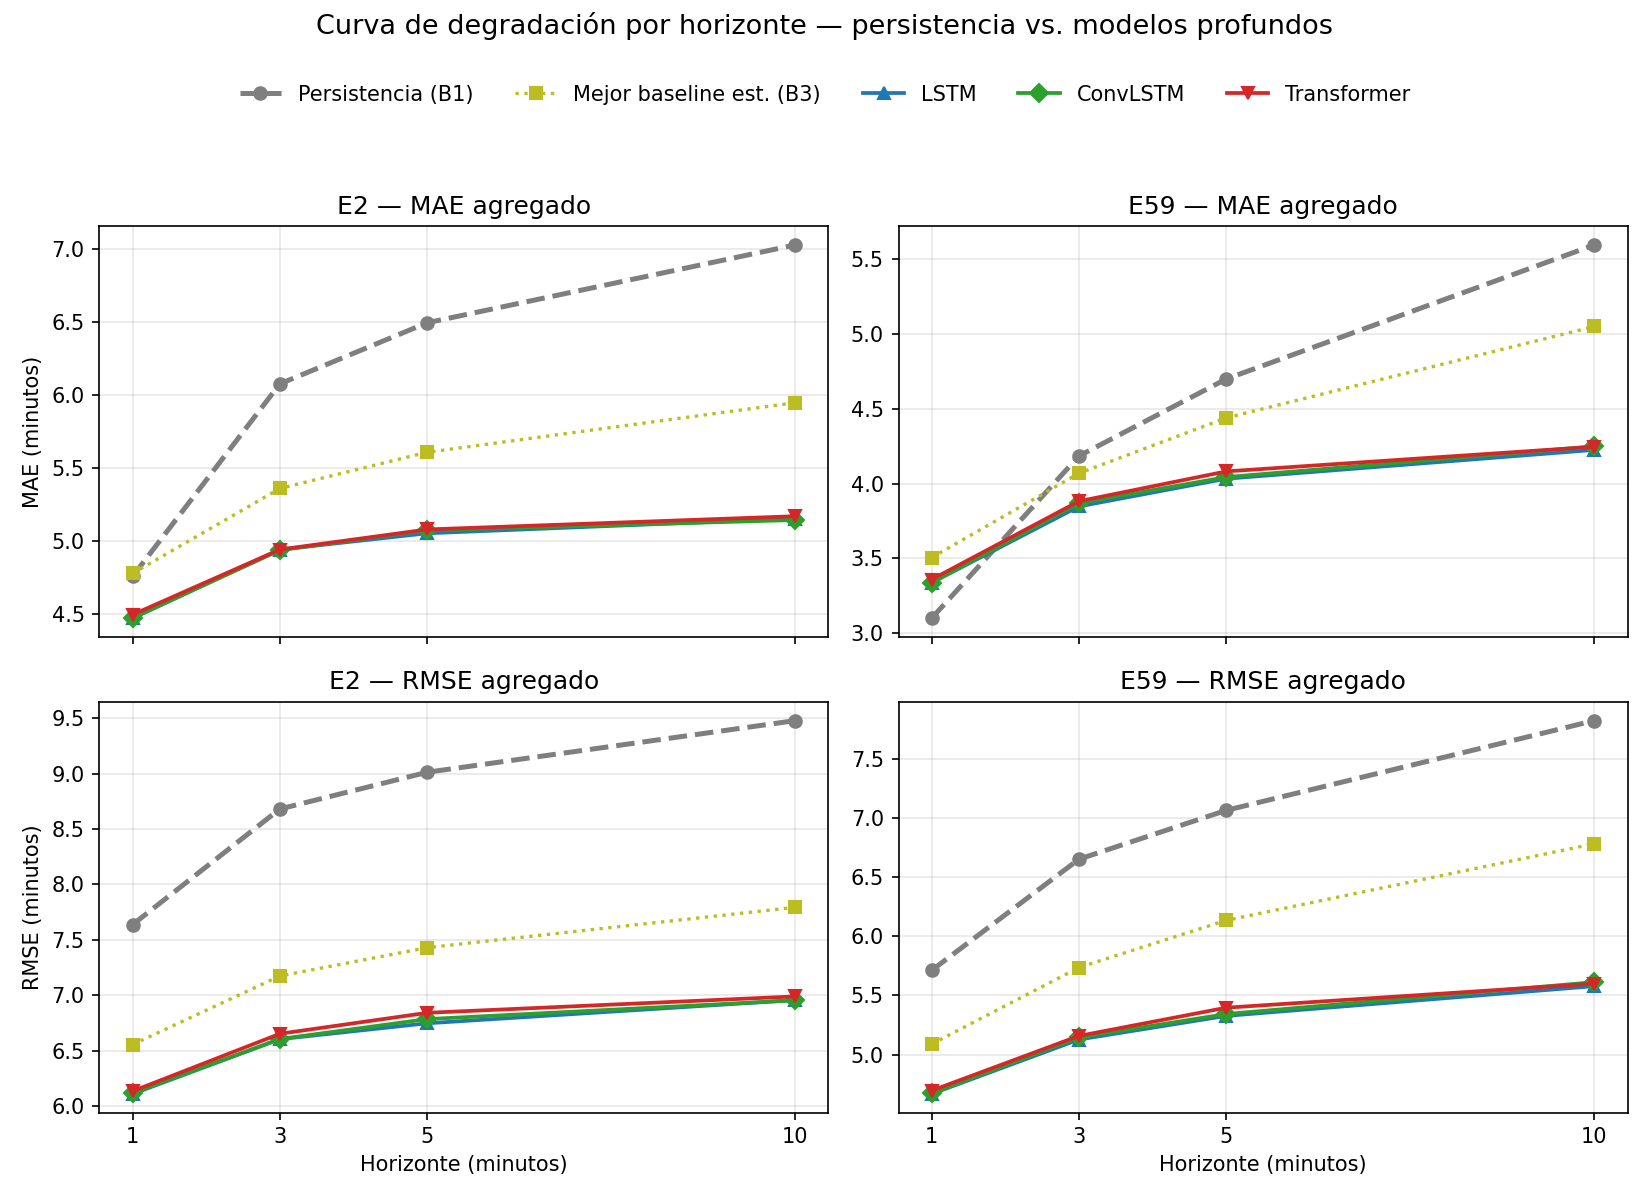
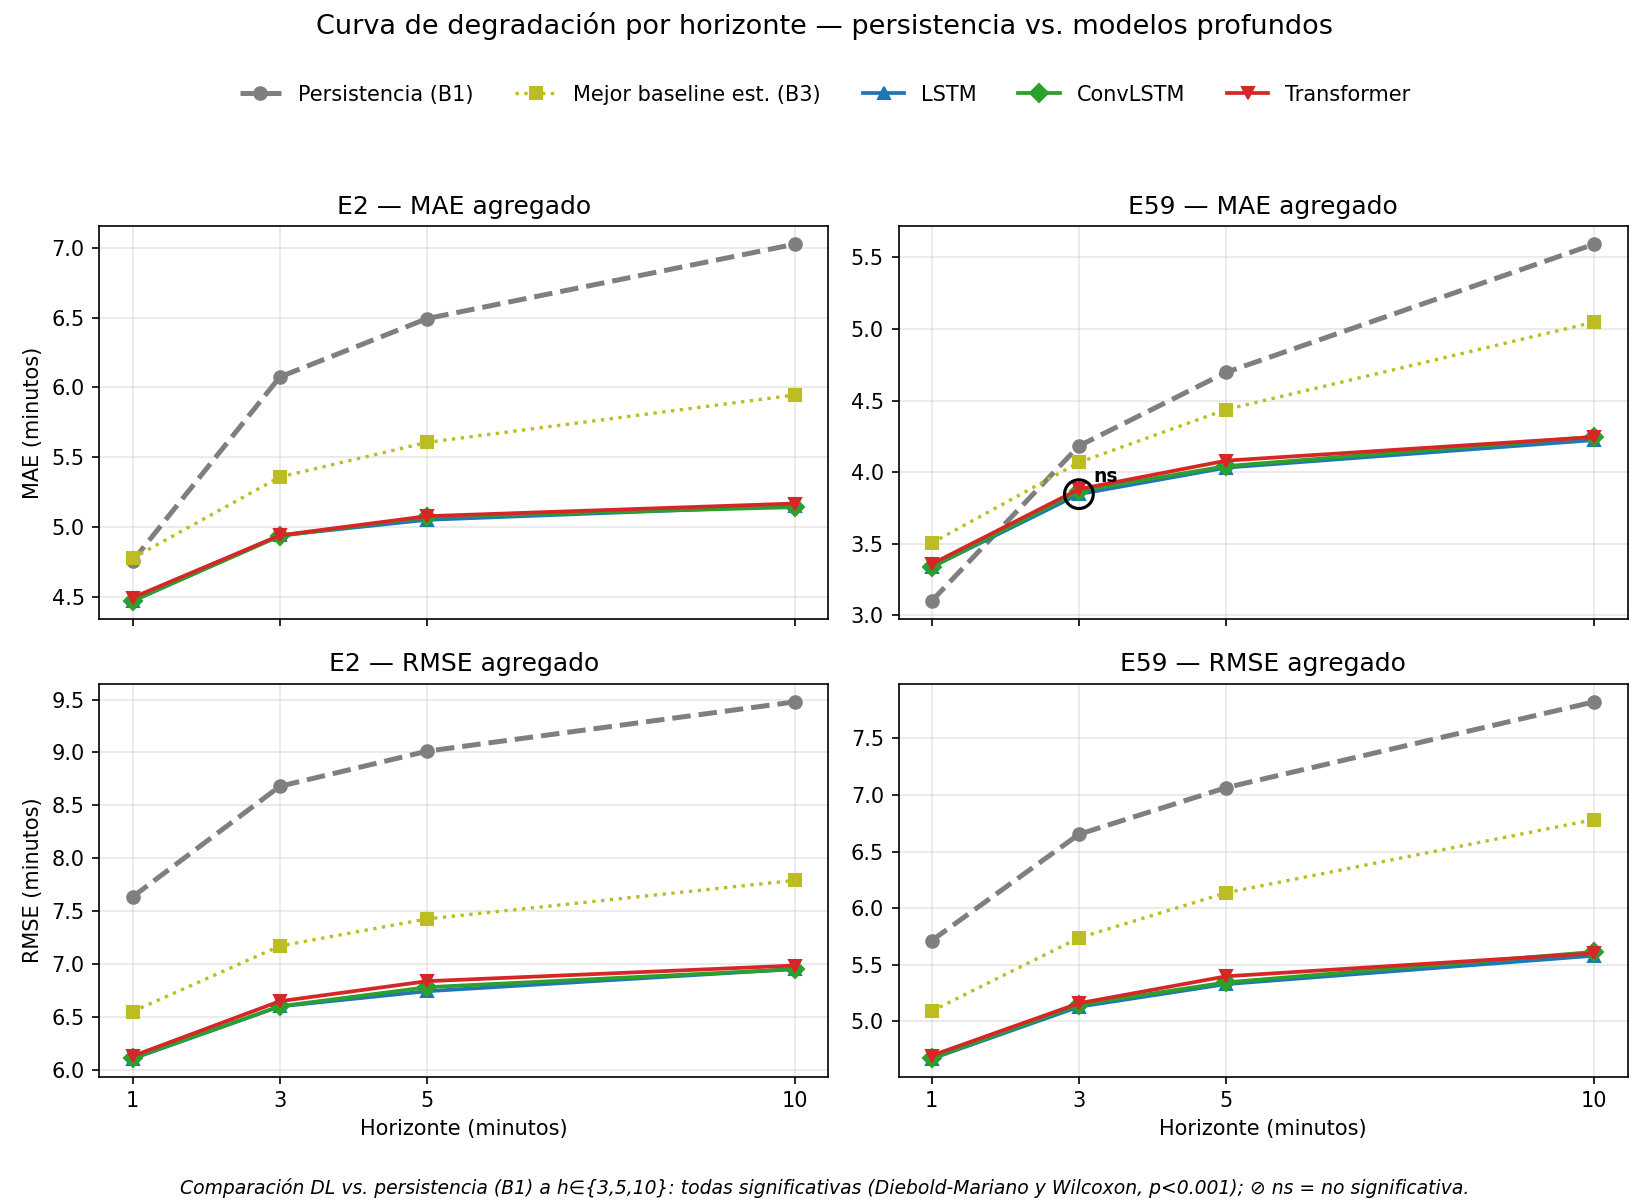
feat(evaluation): anotar significancia en la curva de degradacion
Marca cada punto DL-vs-persistencia de la figura con su veredicto estadistico:
todas las comparaciones (h 3/5/10, ambos corredores, MAE y RMSE) son
significativas salvo LSTM/E59/h3 (MAE), que queda con anillo + "ns". Nota al pie
con la afirmacion global. Los veredictos se leen del CSV versionado, no de los
residuos crudos, asi la figura reproduce sin ellos.

- significance_multihorizon.csv: ahora 36 filas (MAE + RMSE) con columna metric.
- degradation.load_results(pattern): default *.csv; build_degradation_curve usa
  "*_results_*.csv" para no levantar el CSV de significancia co-localizado en
  csv-multihorizon/ (que rompia load_results por schema). Test AC-LOAD-5.

39 tests evaluation verdes.

diff --git a/src/build_degradation_curve.py b/src/build_degradation_curve.py
@@ -12,13 +12,18 @@ Outputs (written to docs/resultados/):
     consolidated_multihorizon.csv   — single tidy table (all models/horizons)
     curva-degradacion.png           — 2x2 grid: rows MAE/RMSE, cols E2/E59
 
-Note: statistical significance (Diebold-Mariano / Wilcoxon) is intentionally NOT
-computed here — it needs per-sample errors, which the result CSVs do not contain.
+Significance: each deep-model point is tested against persistence (B1) with the
+paired Diebold-Mariano and Wilcoxon tests (see build_significance_table.py). All
+DL-vs-persistence comparisons are significant; the single exception is ringed and
+labelled ``ns`` on the figure, with a footnote stating the global claim. The
+significance verdicts are read from the versioned significance_multihorizon.csv,
+so the figure rebuilds without the (unversioned) raw per-sample residuals.
 """
 from __future__ import annotations
 
 from pathlib import Path
 
+import polars as pl
 import matplotlib
 
 matplotlib.use("Agg")  # headless: no display in WSL/CI
@@ -42,10 +47,31 @@ MODELS = [
 METRICS = ["MAE", "RMSE"]
 CORRIDORS = ["E2", "E59"]
 
+# Deep models whose points are tested against persistence (B1).
+DL_MODELS = {"LSTM", "SpatialConvLSTM", "SpatialTransformer"}
+SIG_CSV = RESULTS_DIR / "significance_multihorizon.csv"
+ALPHA = 0.05  # two-tailed threshold for both DM and Wilcoxon
+
 
 def _horizon_axis(table_cols: list[str]) -> list[int]:
     """Extract sorted horizon integers from h{H} column names."""
     return sorted(int(c[1:]) for c in table_cols if c.startswith("h"))
+
+
+def _load_significance(sig_csv: Path) -> dict[tuple[str, str, str, int], bool]:
+    """Map (model, metric, corridor, horizon) -> is the gap significant?
+
+    A point is significant when BOTH the Diebold-Mariano and the Wilcoxon p-value
+    fall below ``ALPHA``. Missing file -> empty map (figure renders unannotated).
+    """
+    if not sig_csv.exists():
+        return {}
+    sig = pl.read_csv(sig_csv)
+    verdict: dict[tuple[str, str, str, int], bool] = {}
+    for row in sig.iter_rows(named=True):
+        key = (row["model"], row["metric"], row["corridor"], int(row["horizon"]))
+        verdict[key] = (row["dm_p"] < ALPHA) and (row["wilcoxon_p"] < ALPHA)
+    return verdict
 
 
 def build(results_dir: Path = RESULTS_DIR, out_dir: Path = OUT_DIR) -> Path:
@@ -53,11 +79,15 @@ def build(results_dir: Path = RESULTS_DIR, out_dir: Path = OUT_DIR) -> Path:
 
     Returns the path to the written figure.
     """
-    df = load_results(results_dir)
+    # Only the per-model/baseline result CSVs; skip the co-located
+    # significance_multihorizon.csv (different schema, same directory).
+    df = load_results(results_dir, pattern="*_results_*.csv")
 
     out_dir.mkdir(parents=True, exist_ok=True)
     master_csv = out_dir / "consolidated_multihorizon.csv"
     df.sort(["corridor", "metric", "baseline", "horizon"]).write_csv(master_csv)
+
+    significance = _load_significance(SIG_CSV)
 
     fig, axes = plt.subplots(2, 2, figsize=(11, 8), sharex=True)
     for row, metric in enumerate(METRICS):
@@ -78,6 +108,20 @@ def build(results_dir: Path = RESULTS_DIR, out_dir: Path = OUT_DIR) -> Path:
                     xs, ys, label=label, color=color, marker=marker,
                     linestyle=ls, linewidth=lw, markersize=6,
                 )
+                # Ring + label the rare DL-vs-persistence point that is NOT
+                # statistically significant (verdict explicitly False; h=1 and
+                # baselines have no paired test and are left unmarked).
+                if name in DL_MODELS:
+                    for x, y in zip(xs, ys):
+                        if significance.get((name, metric, corridor, x)) is False:
+                            ax.scatter(
+                                [x], [y], s=190, facecolors="none",
+                                edgecolors="black", linewidths=1.5, zorder=5,
+                            )
+                            ax.annotate(
+                                "ns", (x, y), textcoords="offset points",
+                                xytext=(7, 6), fontsize=9, fontweight="bold",
+                            )
             ax.set_title(f"{corridor} — {metric} agregado")
             ax.grid(True, alpha=0.3)
             ax.set_xticks(horizons)
@@ -95,7 +139,14 @@ def build(results_dir: Path = RESULTS_DIR, out_dir: Path = OUT_DIR) -> Path:
         handles, labels, loc="upper center", bbox_to_anchor=(0.5, 0.945),
         ncol=len(labels), frameon=False,
     )
-    fig.tight_layout(rect=(0, 0, 1, 0.90))
+    if significance:
+        fig.text(
+            0.5, 0.005,
+            "Comparación DL vs. persistencia (B1) a h∈{3,5,10}: todas significativas "
+            "(Diebold-Mariano y Wilcoxon, p<0.001); ⊘ ns = no significativa.",
+            ha="center", fontsize=9, style="italic",
+        )
+    fig.tight_layout(rect=(0, 0.03, 1, 0.90))
 
     fig_path = out_dir / "curva-degradacion.png"
     fig.savefig(fig_path, dpi=150)

diff --git a/src/build_significance_table.py b/src/build_significance_table.py
@@ -18,8 +18,12 @@ Inputs (downloaded from Kaggle, NOT versioned — see .gitignore):
 
 Output (versioned — small, paper reproducibility):
     docs/resultados/csv-multihorizon/significance_multihorizon.csv
-    columns: model, corridor, horizon, n, delta_mae, dm_stat, dm_p,
+    columns: model, metric, corridor, horizon, n, delta_mae, dm_stat, dm_p,
              wilcoxon_p, dl_better
+    One row per model × metric × corridor × horizon (36 rows). ``dm_*`` and
+    ``wilcoxon_p`` are computed on the row's ``metric`` loss; ``delta_mae`` is
+    the headline effect size, always in MAE units. The §6.6 table is the
+    ``metric == "MAE"`` slice; the RMSE rows back the figure's RMSE panels.
 
 Note on n: with millions of paired samples both p-values collapse to ~0; the
 paper leads with Δ MAE (effect size) and uses the p-values only to confirm the
@@ -45,10 +49,11 @@ MODELS = [
     ("SpatialTransformer", "13-spatialtransformer"),
 ]
 RESIDUALS_GLOB = "**/*_residuals_*.csv"  # skip the co-located *_results_*.csv
+METRICS = ["MAE", "RMSE"]
 
 
 def build(resid_dir: Path = RESID_DIR, out_dir: Path = OUT_DIR) -> Path:
-    """Run the paired tests for every model and write the consolidated CSV.
+    """Run the paired tests for every model × metric and write the consolidated CSV.
 
     Returns the path to the written CSV.
 
@@ -60,14 +65,16 @@ def build(resid_dir: Path = RESID_DIR, out_dir: Path = OUT_DIR) -> Path:
     tables: list[pl.DataFrame] = []
     for name, subdir in MODELS:
         df = load_residuals(resid_dir / subdir, pattern=RESIDUALS_GLOB)
-        table = significance_table(df, metric="MAE").with_columns(
-            pl.lit(name).alias("model")
-        )
-        tables.append(table)
+        for metric in METRICS:
+            table = significance_table(df, metric=metric).with_columns(
+                pl.lit(name).alias("model"), pl.lit(metric).alias("metric")
+            )
+            tables.append(table)
 
     consolidated = pl.concat(tables, how="vertical").select(
         [
             "model",
+            "metric",
             "corridor",
             "horizon",
             "n",
@@ -77,7 +84,7 @@ def build(resid_dir: Path = RESID_DIR, out_dir: Path = OUT_DIR) -> Path:
             "wilcoxon_p",
             "dl_better",
         ]
-    ).sort(["model", "corridor", "horizon"])
+    ).sort(["model", "metric", "corridor", "horizon"])
 
     out_dir.mkdir(parents=True, exist_ok=True)
     out_csv = out_dir / "significance_multihorizon.csv"

diff --git a/src/evaluation/degradation.py b/src/evaluation/degradation.py
@@ -26,16 +26,20 @@ import polars as pl
 REQUIRED_COLUMNS = ["corridor", "direction", "baseline", "metric", "value", "horizon"]
 
 
-def load_results(results_dir: str | Path) -> pl.DataFrame:
-    """Load and concatenate every ``*.csv`` in ``results_dir`` into one frame.
+def load_results(results_dir: str | Path, pattern: str = "*.csv") -> pl.DataFrame:
+    """Load and concatenate every matching CSV in ``results_dir`` into one frame.
 
-    Every CSV must carry the tidy schema in ``REQUIRED_COLUMNS``. The ``horizon``
-    column is cast to ``Int64`` so horizons sort numerically (h2 < h10).
+    Every selected CSV must carry the tidy schema in ``REQUIRED_COLUMNS``. The
+    ``horizon`` column is cast to ``Int64`` so horizons sort numerically (h2 < h10).
 
     Parameters
     ----------
     results_dir:
         Directory holding the multi-horizon result CSVs.
+    pattern:
+        Glob selecting which CSVs to load. Defaults to ``"*.csv"``. Pass
+        ``"*_results_*.csv"`` to skip co-located foreign-schema files such as
+        ``significance_multihorizon.csv`` that share the directory.
 
     Returns
     -------
@@ -44,12 +48,14 @@ def load_results(results_dir: str | Path) -> pl.DataFrame:
     Raises
     ------
     ValueError
-        If the directory contains no CSVs, or any CSV lacks a required column.
+        If no CSV matches ``pattern``, or any matching CSV lacks a required column.
     """
     results_dir = Path(results_dir)
-    csv_paths = sorted(results_dir.glob("*.csv"))
+    csv_paths = sorted(results_dir.glob(pattern))
     if not csv_paths:
-        raise ValueError(f"load_results: no CSV files found in {results_dir}")
+        raise ValueError(
+            f"load_results: no CSV matching {pattern!r} found in {results_dir}"
+        )
 
     frames: list[pl.DataFrame] = []
     for path in csv_paths:

diff --git a/tests/evaluation/test_degradation.py b/tests/evaluation/test_degradation.py
@@ -12,6 +12,8 @@ Acceptance criteria:
     AC-LOAD-2  load_results preserves the 6-column schema and all rows
     AC-LOAD-3  load_results raises if the dir has no CSVs
     AC-LOAD-4  load_results raises if a CSV has the wrong schema
+    AC-LOAD-5  load_results(pattern=...) loads only matching CSVs, so a
+               co-located foreign-schema CSV (e.g. significance) is skipped
     AC-CURVE-1 degradation_table pivots horizons to columns, one row per model
     AC-CURVE-2 degradation_table filters by metric and direction
     AC-CURVE-3 degradation_table sorts horizons ascending
@@ -78,6 +80,27 @@ class TestLoadResults:
         pl.DataFrame({"foo": [1], "bar": [2]}).write_csv(tmp_path / "bad.csv")
         with pytest.raises(ValueError, match="schema"):
             load_results(tmp_path)
+
+    def test_pattern_skips_foreign_csv(self, tmp_path):
+        """AC-LOAD-5: a co-located foreign-schema CSV is skipped by pattern.
+
+        The significance table (significance_multihorizon.csv) lives in the same
+        csv-multihorizon/ dir but has a different schema. The default glob would
+        choke on it; ``pattern="*_results_*.csv"`` selects only result files.
+        """
+        _write_csv(
+            tmp_path / "lstm_results_h3.csv",
+            [("E2", "aggregate", "LSTM", "MAE", 5.1, 3)],
+        )
+        pl.DataFrame(
+            {"model": ["LSTM"], "metric": ["MAE"], "dm_p": [0.0]}
+        ).write_csv(tmp_path / "significance_multihorizon.csv")
+
+        with pytest.raises(ValueError, match="schema"):
+            load_results(tmp_path)
+        df = load_results(tmp_path, pattern="*_results_*.csv")
+        assert df.height == 1
+        assert set(df["baseline"]) == {"LSTM"}
 
 
 # --- AC-CURVE --------------------------------------------------------------
